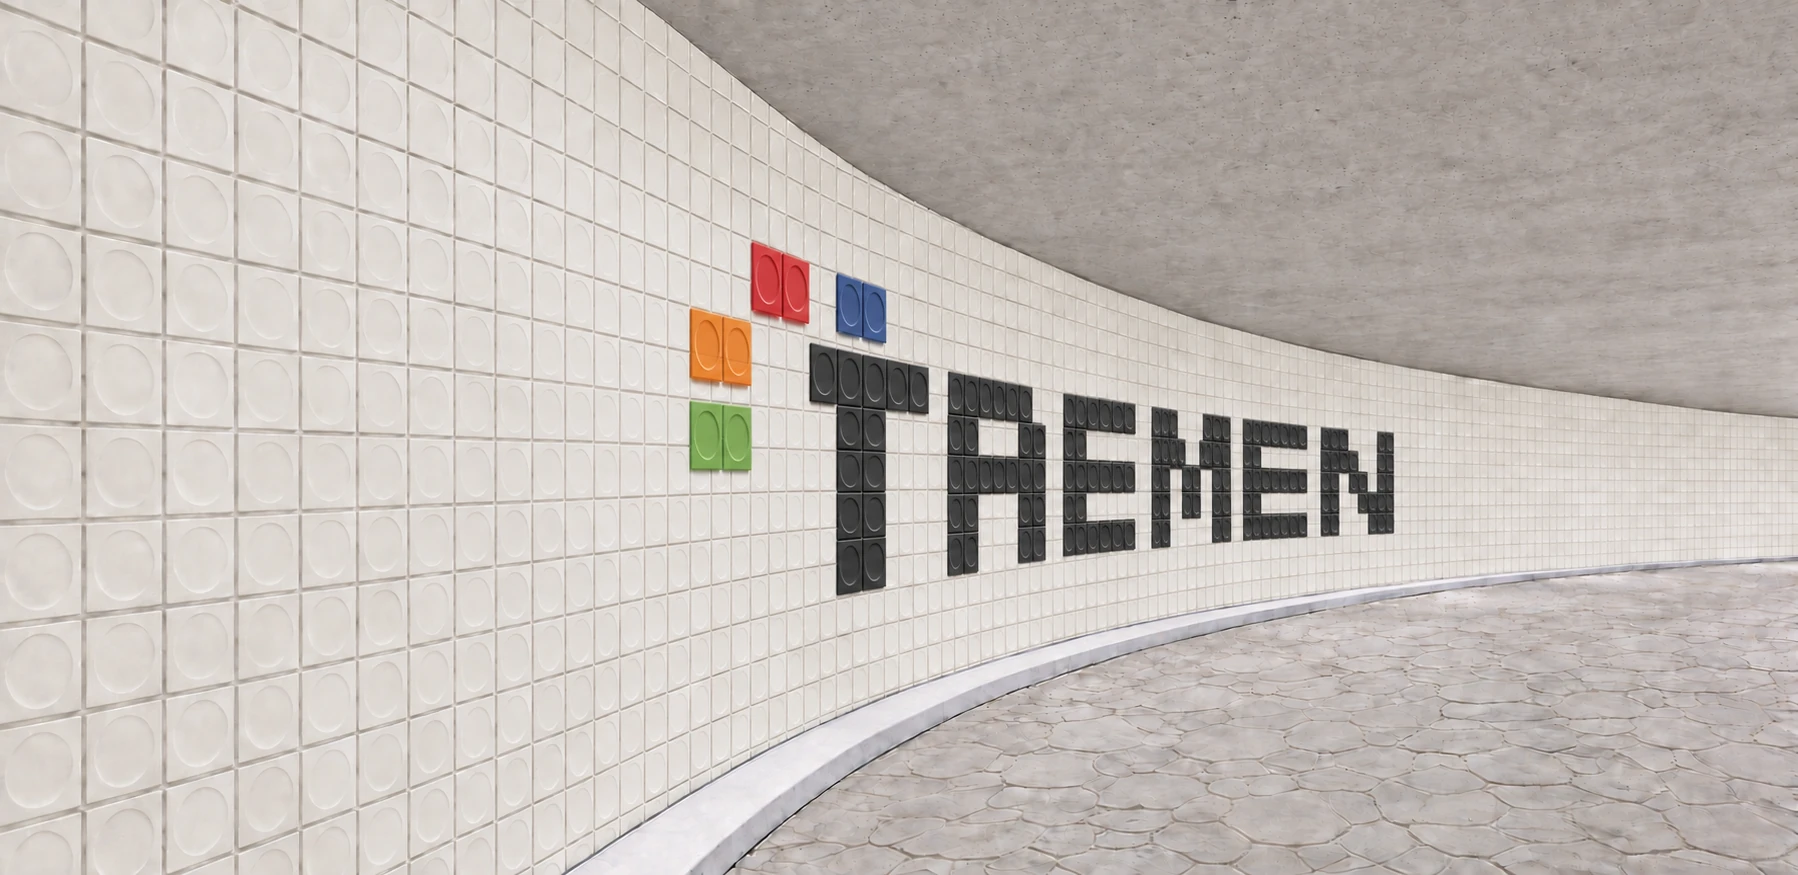
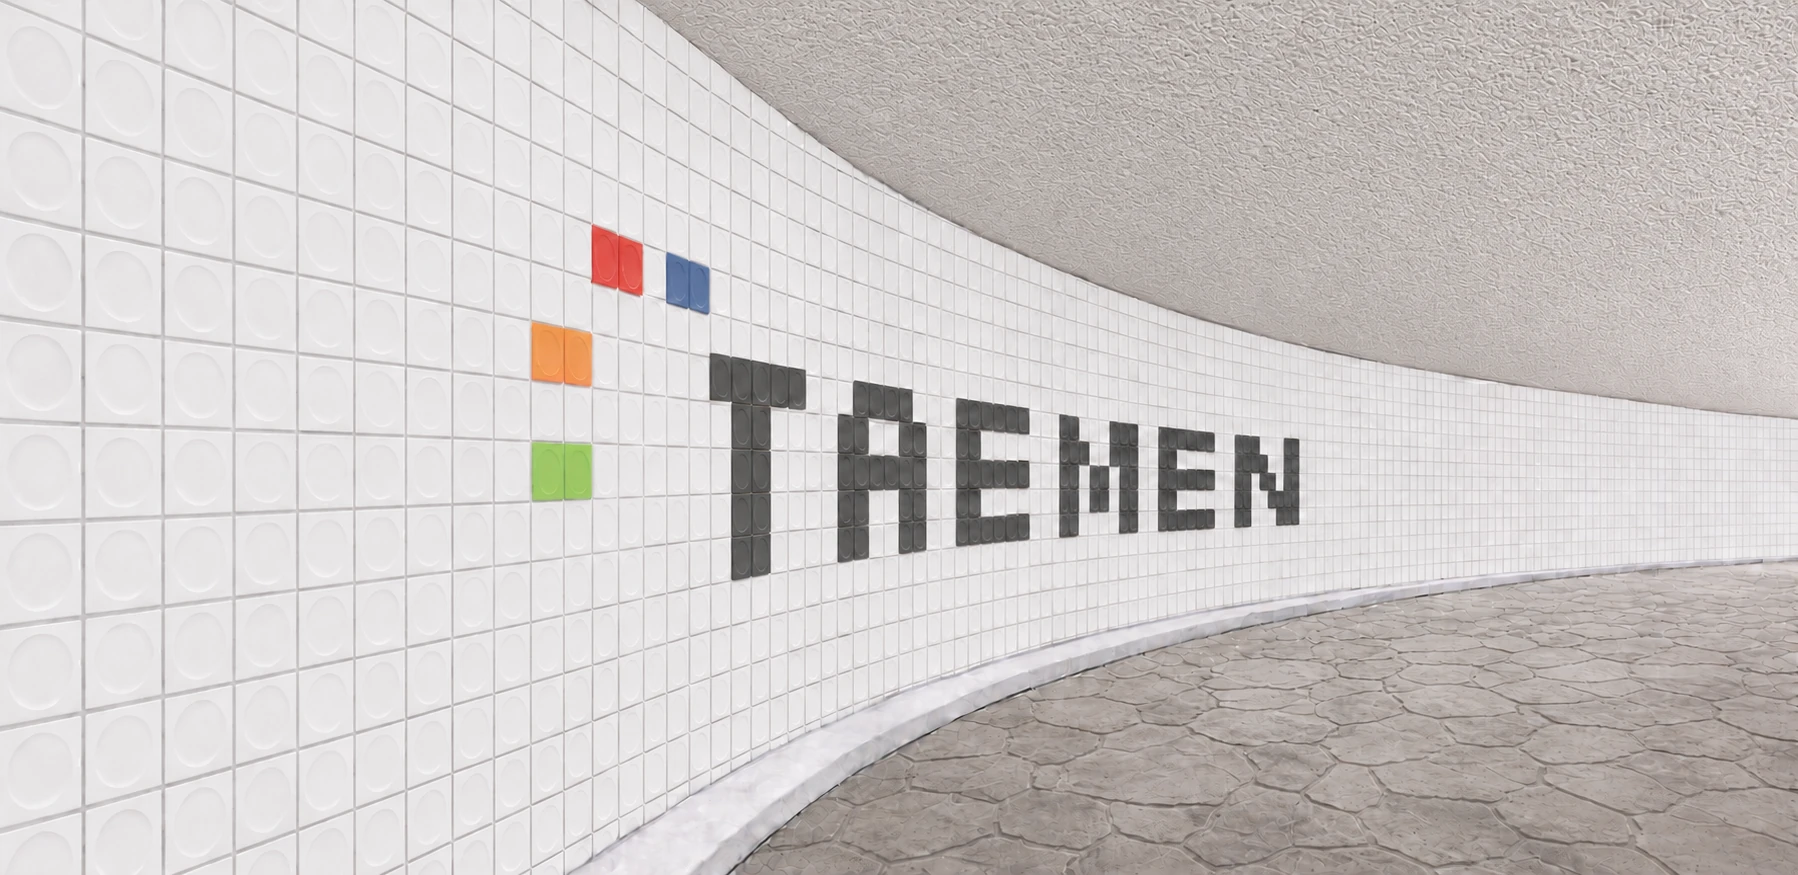
벽체 배수판 완성 이미지를 배경에 반영

diff --git a/styles.css b/styles.css
@@ -1293,7 +1293,7 @@ footer a {
 
 /* Wall product hero: installation photo with layered contrast for readable copy. */
 .wall-page-title {
-  background-image: url("assets/wall-ramp-taemen-hero.webp");
+  background-image: url("assets/wall-ramp-taemen-hero.webp?v=20260914-final");
   background-size: cover;
   background-position: center center;
   background-repeat: no-repeat;
@@ -1301,9 +1301,9 @@ footer a {
 
 .wall-page-title::before {
   background:
-    radial-gradient(ellipse at 50% 50%, rgba(5, 8, 9, .36) 0%, rgba(5, 8, 9, .16) 42%, rgba(5, 8, 9, 0) 72%),
-    linear-gradient(rgba(12, 16, 18, .56), rgba(12, 16, 18, .56));
-  backdrop-filter: blur(1px);
+    radial-gradient(ellipse at 50% 50%, rgba(7, 10, 11, .32) 0%, rgba(7, 10, 11, .14) 42%, rgba(7, 10, 11, 0) 72%),
+    linear-gradient(rgba(15, 20, 22, .28), rgba(15, 20, 22, .28));
+  backdrop-filter: none;
 }
 
 #pvc-wall .productPhoto,
